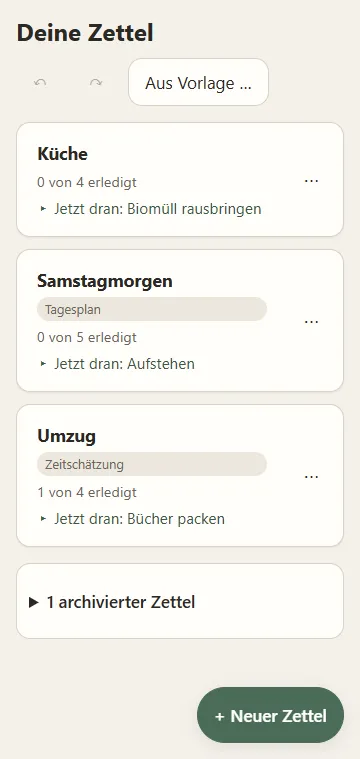
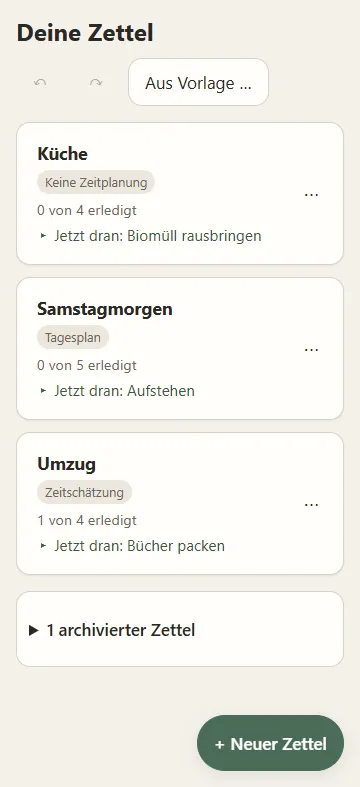
docs: v2.1 – Anleitung, Architektur, Abnahme, Prinzipien, Changelog, Bilder, Testdaten
- Anleitung (EN + DE): Etiketten für jeden Modus, Namensregeln, eindeutige
  Vorlagen, "Was ist neu?", Tastenkürzel ändern (neues Bild "advanced")
- ACCEPTANCE: Kriterien 21–26; manuelle Testdaten um ⑪ und doppelte Vorlagen
- DESIGN-PRINCIPLES: Namensregel, Etiketten, lange Titel, reservierte Tasten
- Screenshots neu erzeugt (26 Bilder, 365 KB)

diff --git a/docs/USER-GUIDE.md b/docs/USER-GUIDE.md
@@ -58,9 +58,10 @@ Both notes appear only once. Then:
 ![The list overview](images/en/overview.webp)
 
 The start page shows all your lists as cards. Each card shows the **title**,
-the **progress** (“1 of 4 done”), a **mode label** if the list uses a time
-planning, and the todo that is **up now** – so you know what's next without
-opening the list. Tapping the card opens it.
+the **progress** (“1 of 4 done”), a **label** with its time planning (also
+“No time planning”), and the todo that is **up now** – so you know what's next
+without opening the list. Long titles are shortened to two lines. Tapping the
+card opens it.
 
 At the top are **Undo** (↶) and **Redo** (↷) for what you did in the overview,
 and – once you have templates – **“From template …”**.
@@ -78,8 +79,10 @@ The **menu (⋯)** on a card offers:
 Every menu (⋯) in the app closes when you tap anywhere outside it, tap the
 three dots again or press **Esc**.
 
-**Names are unique:** two lists can't have the same name (upper and lower case
-don't count). If a name is taken, the dialog says so and waits for another one.
+**Names:** every list needs a name, and two lists can't have the same name
+(upper and lower case don't count). As long as the name is empty or taken, the
+button stays disabled and a short hint below the field says why. The same
+applies to templates.
 
 **Finished lists archive themselves:** when you come back to the overview,
 every list whose todos are all done moves to the archive, with **“Undo”** at
@@ -143,7 +146,7 @@ menu (⋯).
 Result: only the newest prerequisite is “Now”. Once it's checked off, the next
 one moves up by itself.
 
-> **On a computer:** **V** = something else has to come first, **N** = insert
+> **On a computer** (keys changeable, section 12): **V** = something else has to come first, **N** = insert
 > after, **E** = edit, **Enter/Space** = done, **Esc** ends a chain.
 
 ### 5. A list: “Flow”
@@ -284,7 +287,9 @@ Save a whole list **or** a single strand as a **template**:
 - **One strand:** in the Flow, card menu (⋯) → **“Save strand as template”**.
 
 Templates keep structure, titles, notes, checklists (unchecked), durations,
-times of day and the time planning – but not what was already done.
+times of day and the time planning – but not what was already done. Template
+names are unique like list names: saving a second “Weekly shop” creates
+“Weekly shop (2)”.
 
 On the **Templates** page you can expand the **Flow** of a template as a
 preview, **Rename** or **Delete** it (with Undo) and create a
@@ -301,11 +306,14 @@ into list”**: the template is added as a new, separate strand.
   permanently. If not, **“Protect permanently”** asks the browser.
 - **Install** – shows **“Offline ready”** once Faden is completely stored on
   your device, plus **“Install app”** where the browser offers it.
-- **Version** – the installed version. Faden **never updates by itself**;
-  **“Check for a new version”** asks, and a new version is only switched to
-  once it has been downloaded completely.
+- **Version** – the installed version. **“What's new?”** shows the changes of
+  every version (also offline). Faden **never updates by itself**; **“Check
+  for a new version”** asks, and a new version is only switched to once it has
+  been downloaded completely.
 - **Help** – **“Read the guide”** opens this guide in the app (also offline);
   **“Faden on GitHub”** opens the source code and the place to report problems.
+- **Advanced** – settings most people never need; for now the keyboard
+  shortcuts (section 12).
 - **Backup and data** – section 10.
 
 > **On a phone (iPhone/iPad):** in Safari, **Share → Add to Home Screen**
@@ -355,13 +363,23 @@ checking off, inserting, shifting.
 
 > **On a computer:**
 > - **Tab / Shift+Tab** move through the controls; every control shows a
->   clear focus ring.
-> - In “Now”: **Enter/Space** = done, **V** = something else has to come first,
->   **N** = insert after, **E** = edit.
-> - In the Flow: arrow keys move between cards, **Enter** edits, **Delete**
->   deletes.
+>   clear focus ring. **Enter/Space** press the focused button, e.g. “Done”.
+> - In “Now”: **V** = something else has to come first, **N** = insert after,
+>   **E** = edit.
+> - In the Flow (on a focused card): arrow keys move between cards, **Enter**
+>   edits, **Delete** deletes.
 > - **Ctrl/Cmd+Z** = undo, **Ctrl/Cmd+Shift+Z** or **Ctrl+Y** = redo.
-> - **?** shows all shortcuts. **Esc** closes menus and dialogs.
+> - **?** shows all shortcuts with their current keys. **Esc** closes menus
+>   and dialogs.
+
+![Changing keyboard shortcuts](images/en/advanced.webp)
+
+**Changing shortcuts:** under **Settings → Advanced**, tap **“Change”** next to
+an action and press the new key or combination (**Esc** cancels). Faden
+refuses keys that are already used where the action works, and **Tab** and
+**Esc**, which stay reserved for navigating. Changed shortcuts are marked
+“changed”; **“Default”** resets one, **“Reset all to default”** all of them.
+Shortcuts only work while no input field is active.
 
 ### 13. If something goes wrong
 
@@ -432,10 +450,10 @@ Beide Hinweise kommen nur einmal. Danach:
 ![Die Zettel-Übersicht](images/de/overview.webp)
 
 Die Startseite zeigt alle Zettel als Karten. Jede Karte zeigt den **Titel**,
-den **Fortschritt** („1 von 4 erledigt“), ein **Modus-Etikett**, wenn der
-Zettel eine Zeitplanung nutzt, und das ToDo, das **jetzt dran** ist – so weißt
-du, was als Nächstes kommt, ohne den Zettel zu öffnen. Ein Tipp auf die Karte
-öffnet ihn.
+den **Fortschritt** („1 von 4 erledigt“), ein **Etikett** mit seiner
+Zeitplanung (auch „Keine Zeitplanung“) und das ToDo, das **jetzt dran** ist – so
+weißt du, was als Nächstes kommt, ohne den Zettel zu öffnen. Lange Titel werden
+auf zwei Zeilen gekürzt. Ein Tipp auf die Karte öffnet ihn.
 
 Oben stehen **Rückgängig** (↶) und **Wiederholen** (↷) für das, was du in der
 Übersicht getan hast, und – sobald es Vorlagen gibt – **„Aus Vorlage …“**.
@@ -453,9 +471,10 @@ Das **Menü (⋯)** einer Karte bietet:
 Jedes Menü (⋯) in der App schließt sich, wenn du irgendwo daneben tippst, noch
 einmal auf die drei Punkte tippst oder **Esc** drückst.
 
-**Namen sind eindeutig:** Zwei Zettel können nicht gleich heißen (Groß- und
-Kleinschreibung zählen nicht). Ist ein Name vergeben, sagt der Dialog das und
-wartet auf einen anderen.
+**Namen:** Jeder Zettel braucht einen Namen, und zwei Zettel können nicht gleich
+heißen (Groß- und Kleinschreibung zählen nicht). Solange der Name leer oder
+vergeben ist, bleibt der Knopf gesperrt, und ein kurzer Hinweis unter dem Feld
+sagt warum. Für Vorlagen gilt dasselbe.
 
 **Fertige Zettel archivieren sich selbst:** Kommst du zurück in die Übersicht,
 wandert jeder Zettel, dessen ToDos alle erledigt sind, ins Archiv – mit
@@ -519,7 +538,7 @@ Fortschritt, Modus-Etikett, Rückgängig/Wiederholen für diesen Zettel, **?**
 Ergebnis: Nur die neueste Vorarbeit ist „Jetzt dran“. Ist sie abgehakt, rückt
 die nächste von selbst nach.
 
-> **Am PC:** **V** = erst noch etwas anderes nötig, **N** = danach einfügen,
+> **Am PC** (Tasten änderbar, Abschnitt 12): **V** = erst noch etwas anderes nötig, **N** = danach einfügen,
 > **E** = bearbeiten, **Enter/Leertaste** = erledigt, **Esc** beendet eine
 > Kette.
 
@@ -668,6 +687,8 @@ Speichere einen ganzen Zettel **oder** einen einzelnen Strang als **Vorlage**:
 
 Vorlagen behalten Struktur, Titel, Notizen, Checklisten (ohne Haken), Dauern,
 Uhrzeiten und die Zeitplanung – aber nicht, was schon erledigt war.
+Vorlagen-Namen sind eindeutig wie Zettel-Namen: Ein zweiter „Wocheneinkauf“ wird
+zu „Wocheneinkauf (2)“.
 
 Auf der Seite **Vorlagen** klappst du den **Ablauf** einer Vorlage als Vorschau
 auf, kannst sie **Umbenennen** oder **Löschen** (mit Rückgängig) und mit
@@ -685,12 +706,15 @@ neuer, eigener Strang dazu.
   schützt. Wenn nicht, fragt **„Dauerhaft schützen“** beim Browser nach.
 - **Installieren** – zeigt **„Offline bereit“**, sobald Faden vollständig auf
   deinem Gerät liegt, und **„App installieren“**, wo der Browser es anbietet.
-- **Version** – die installierte Version. Faden **aktualisiert sich nie von
+- **Version** – die installierte Version. **„Was ist neu?“** zeigt die
+  Änderungen jeder Version (auch offline). Faden **aktualisiert sich nie von
   selbst**; **„Nach neuer Version suchen“** fragt nach, und auf eine neue
   Version wird erst umgeschaltet, wenn sie vollständig geladen ist.
 - **Hilfe** – **„Anleitung lesen“** öffnet diese Anleitung in der App (auch
   offline); **„Faden auf GitHub“** öffnet den Quellcode und die Stelle zum
   Melden von Fehlern.
+- **Für Fortgeschrittene** – Einstellungen, die die meisten nie brauchen;
+  vorerst die Tastenkürzel (Abschnitt 12).
 - **Sicherung und Daten** – Abschnitt 10.
 
 > **Auf dem Handy (iPhone/iPad):** In Safari installiert **Teilen → Zum
@@ -745,14 +769,26 @@ Löschen, Abhaken, Einfügen, Verschieben.
 
 > **Am PC:**
 > - **Tab / Umschalt+Tab** wechseln zwischen den Bedienelementen; jedes zeigt
->   einen deutlichen Fokusrahmen.
-> - In „Jetzt dran“: **Enter/Leertaste** = erledigt, **V** = erst noch etwas
->   anderes nötig, **N** = danach einfügen, **E** = bearbeiten.
-> - Im Ablauf: Pfeiltasten wechseln zwischen Karten, **Enter** bearbeitet,
->   **Entf** löscht.
+>   einen deutlichen Fokusrahmen. **Enter/Leertaste** lösen den fokussierten
+>   Knopf aus, z. B. „Erledigt“.
+> - In „Jetzt dran“: **V** = erst noch etwas anderes nötig, **N** = danach
+>   einfügen, **E** = bearbeiten.
+> - Im Ablauf (auf einer fokussierten Karte): Pfeiltasten wechseln zwischen
+>   Karten, **Enter** bearbeitet, **Entf** löscht.
 > - **Strg/Cmd+Z** = rückgängig, **Strg/Cmd+Umschalt+Z** oder **Strg+Y** =
 >   wiederholen.
-> - **?** zeigt alle Tastenkürzel. **Esc** schließt Menüs und Dialoge.
+> - **?** zeigt alle Tastenkürzel mit ihrer aktuellen Belegung. **Esc** schließt
+>   Menüs und Dialoge.
+
+![Tastenkürzel ändern](images/de/advanced.webp)
+
+**Tastenkürzel ändern:** Unter **Einstellungen → Für Fortgeschrittene** tippst
+du neben einer Aktion auf **„Ändern“** und drückst die neue Taste oder
+Kombination (**Esc** bricht ab). Faden lehnt Tasten ab, die dort schon belegt
+sind, wo die Aktion wirkt, sowie **Tab** und **Esc**, die für die Bedienung
+reserviert bleiben. Geänderte Kürzel sind als „geändert“ markiert;
+**„Standard“** setzt eines zurück, **„Alle auf Standard“** alle. Kürzel wirken
+nur, wenn gerade kein Eingabefeld aktiv ist.
 
 ### 13. Wenn etwas schiefgeht
 

diff --git a/docs/ACCEPTANCE.md b/docs/ACCEPTANCE.md
@@ -40,6 +40,12 @@ auf eine Bildschirmgröße einschränken.
 | 18 | **Zeitplanung mit Start + Dauer:** Zeit im Sheet als Zusammenfassungszeile (beim Anlegen im Tagesplan/festen Zeitplan aufgeklappt); Pause am Pfeil nur bei > 0; Verschieben für Zettel oder Strang mit Vorschau, im Tagesplan nie über 0:00/24:00; relatives Einfügen vor dem ersten, nach dem letzten und dazwischen (beide Optionen, Verzweigungen), nur im eigenen Strang, ein Undo-Schritt; „+1 Tag“ behält die Uhrzeit über die Zeitumstellung. | Unit-Tests `time.spec` (`pauseBetween`, `relativeContext`, `placeRelative`, `shiftPlan` mit Bereich und Zeitumstellung, `shiftLeavesDay`), `task-editor.spec` (Zeit), `plan-editor.spec`, `flow-view.spec`; `test:acceptance` Tests 8 (Ablauf und Sheet im Tagesplan) | ✔ |
 | 19 | **Konflikte beim Zusammenführen:** Gleichnamige Zettel (ohne Groß-/Kleinschreibung) werden angezeigt; eine Wahl für alle: als „Name (2)“, überschreiben (ID und Position bleiben, vorher Sicherung), nicht importieren, nur neuere (Gleichstand = überspringen); Ergebnis „n importiert, n übersprungen, n überschrieben“. | Unit-Tests `storage.spec` (`findConflicts`, `resolveConflicts` alle vier Strategien, Roundtrip), `backup.service.spec` (Sicherung vor dem Überschreiben), `settings-page.spec` (Konflikt-Dialog) | ✔ |
 | 20 | **Erst-Start und Anleitung:** Beim ersten Start modaler Speicher-Hinweis (nur „Verstanden“ schließt ihn), danach einmal das Angebot, die Anleitung zu lesen; das Installations-Banner erst danach. Die Anleitung öffnet im Vollbild beim Teil der eingestellten Sprache, Anker-Links bleiben im Dialog, sie ist offline lesbar und in den Einstellungen erreichbar; dort auch der Link zum Repository. | `test:acceptance` Test F (nur Tastatur, 360 px, Tippflächen); `test:pwa` Test 2 (Anleitung offline); Unit-Tests `first-run.spec`, `guide-dialog.spec`, `install-banner.spec`; `test:scripts` (Konverter) | ✔ |
+| 21 | **Lange Titel** (mit und ohne Leerzeichen) brechen überall um und ragen nie aus Karten, Kopfzeilen oder der Seitenleiste; Vorschauen in der Übersicht und im Archiv zeigen höchstens zwei Zeilen, Ablauf-Karten höchstens drei. | `test:acceptance` Tests 8 (Testzettel mit 136 Zeichen ohne Leerzeichen; Prüfung „Text ragt heraus“ in allen Größen, inkl. seitlich abgeschnittener Wörter); Gegenprobe ohne Umbruch schlägt an | ✔ |
+| 22 | **Modus-Etikett** an jedem Zettel (Übersicht, Archiv, Kopf, Seitenleiste), auch „Keine Zeitplanung“, nur so breit wie sein Text. | Unit-Test `lists-page.spec`; Bilder der Anleitung | ✔ |
+| 23 | **Namen** von Zetteln, Vorlagen und ToDos sind nie leer; Zettel- und Vorlagen-Namen sind eindeutig (auch beim Import und für vorhandene Duplikate). Leer und vergeben verhalten sich gleich: Knopf gesperrt (`aria-disabled`, weiter erreichbar), ruhiger Hinweis direkt unter dem Feld. | Unit-Tests `list-dialog.spec`, `task-editor.spec`, `templates.store.spec`, `storage.spec` | ✔ |
+| 24 | **Tastenkürzel änderbar** unter „Für Fortgeschrittene“: Aufnahme per Tastendruck, Esc bricht ab, Tab bleibt Navigation, belegte und reservierte Tasten werden abgelehnt, Zurücksetzen einzeln und gesamt; die Hilfe (?) zeigt die aktuelle Belegung. | Unit-Tests `keymap.spec`, `advanced-page.spec`, `focus-view.spec`, `flow-view.spec`; `test:acceptance` Test 1 (Standardbelegung per Tastatur) und Tests 8 (Seite responsiv) | ✔ |
+| 25 | **„Was ist neu?“** zeigt `CHANGELOG.md` in der App, auch offline. | Unit-Test `guide-dialog.spec`; `test:pwa` Test 2 | ✔ |
+| 26 | **Ablauf verschieben markiert keinen Text.** | `test:acceptance` Tests 8 (`user-select: none` auf der Diagrammfläche) | ✔ |
 
 ## Manuelle Testdaten
 
@@ -60,8 +66,10 @@ damit Auto-Archiv (⑦) und eindeutige Namen (⑨) greifen.
 | ⑦ Alles erledigt | Auto-Archiv beim Betreten der Übersicht, mit Rückgängig |
 | ⑧ Archiv | Modus-Chip, enthaltene ToDos, Menü, Duplizieren als „(2)“ |
 | ⑨ Doppelter Name (2×) | Bereinigung beim Laden, gesperrte Namen im Dialog |
-| ⑩ Lange Titel | Umbruch und Abschneiden bei 360 px |
+| ⑩ Lange Titel | Umbruch (auch ohne Leerzeichen) und Kürzen in Übersicht, „Jetzt dran“ und Ablauf |
+| ⑪ Name ohne Leerzeichen | Zettelname bricht um; Chip „Keine Zeitplanung“ überall, schmal; Ablauf ohne Textmarkierung |
 | Vorlage: Morgenroutine | Vorlage mit Zeiten und Checkliste einsetzen |
+| Vorlage doppelt (2×) | Eindeutige Vorlagen-Namen beim Import, gesperrtes Umbenennen |
 
 Was jeweils zu tun ist, steht in den Notizen der ToDos. Neue Features ergänzen
 hier ihren Zettel; der Unit-Test in `storage.spec` stellt sicher, dass die Datei

diff --git a/docs/ARCHITECTURE.md b/docs/ARCHITECTURE.md
@@ -44,6 +44,7 @@ src/app/
 │  │  ├─ status.ts                  Zeitstatus, nächster Schritt, Sortierung, Spannen
 │  │  ├─ plan.ts                    Validierung, Verschieben, Strecken, Vorschläge
 │  │  └─ relative.ts                Pause am Pfeil, Einfügen mit relativen Zeiten
+│  ├─ keymap.ts                     REINE Tastenkürzel-Logik (Standard, eigene Belegung, Konflikte)
 │  ├─ templates/                    REINE Vorlagen-Logik (framewerkfrei, Phase 3)
 │  │  └─ templates.ts               Zettel/Strang → Vorlage, Vorlage → Zettel/Strang
 │  ├─ storage/                      Persistenz (IndexedDB, Migration, Backup)
@@ -70,7 +71,7 @@ src/app/
 │  │  ├─ plan-editor.ts             „Zeitplan bearbeiten" / „Strang verschieben"
 │  │  └─ shortcut-help.ts           Tastenkürzel-Übersicht
 │  ├─ templates/                    Vorlagen-Seite (Phase 3, fertig)
-│  └─ settings/                     Einstellungen (Phase 1: Theme, Sprache, Version, Speicher)
+│  └─ settings/                     Einstellungen; advanced-page.ts = „Für Fortgeschrittene“ (Tastenkürzel)
 └─ shared/
    ├─ menus.ts                      gemeinsames Schließen aller ⋯-Menüs (Klick, Esc)
    ├─ focus.ts                      focusAfterRender (Fokus in neu erscheinende Felder)
@@ -168,6 +169,21 @@ Frameworkfrei und vollständig unit-getestet. Vier Dateien:
 Alle Funktionen sind **rein** (Eingabe → neue Struktur). Das minütliche `now`
 liefert `core/state/now.store.ts` als Signal; die reinen Funktionen bekommen `now`
 übergeben und bleiben dadurch testbar.
+
+## 4a2. Tastenkürzel (`core/keymap.ts`)
+
+Frameworkfrei und getestet (`keymap.spec.ts`). Jede Aktion gehört zu einem
+**Bereich**: `focus` („Jetzt dran“), `flow` (Ablauf, nur auf einer fokussierten
+Karte) oder `global` (überall im Zettel). `DEFAULT_KEYMAP` ist die
+Standardbelegung; `AppSettings.keymap` speichert **nur Abweichungen**
+(`SettingsStore.keymap` = Standard + eigene). `actionFor(event, keymap,
+scopes)` ersetzt alle früheren Tasten-Vergleiche in `focus-view`, `flow-view`
+und `list-detail-page`. Regeln: Strg und Cmd gelten gleich; Umschalt zählt bei
+Buchstaben und benannten Tasten, nicht bei Zeichen wie „?“ (je nach
+Tastaturlayout nötig); Tab und Esc sind reserviert; `conflictFor` verhindert
+Doppelbelegungen in Bereichen, die zugleich aktiv sein können (`global`
+überschneidet sich mit allen). Die Seite `einstellungen/fortgeschritten`
+nimmt neue Tasten auf; die Tastenkürzel-Hilfe zeigt die aktuelle Belegung.
 
 ## 4b. Vorlagen-Logik (`core/templates`)
 
@@ -341,7 +357,7 @@ Bausteine:
 | `scripts/generate-icons.mjs` | Rastert die Icon-Geometrie (Quelle: `public/icons/icon.svg`) ohne Fremdpakete zu PNG/ICO (`npm run icons`). |
 | `core/pwa/pwa.service.ts` | Registriert `./sw.js` (nur Produktion, nach `load`), fängt `beforeinstallprompt` ab, erkennt iOS und installierten Modus, fragt den SW nach dem Precache-Status („Offline bereit"). |
 | `scripts/pwa-test.mjs` | Automatisierte Pflichttests, siehe `docs/PWA-TESTS.md`. |
-| `scripts/guide.mjs`, `scripts/lib/markdown.mjs` | Läuft vor `ng build` und `ng serve`: wandelt `docs/USER-GUIDE.md` mit einem eigenen kleinen Konverter (nur die genutzten Elemente, Zitate als Kästen „Am PC / Auf dem Handy“, keine Abhängigkeit; Tests mit `npm run test:scripts`) in das Fragment `public/guide/guide.html` um und kopiert `docs/images/`. Nicht eingecheckt; über den Build im Precache, also offline lesbar. |
+| `scripts/guide.mjs`, `scripts/lib/markdown.mjs` | Läuft vor `ng build` und `ng serve`: wandelt `docs/USER-GUIDE.md` und `CHANGELOG.md` mit einem eigenen kleinen Konverter (nur die genutzten Elemente, Zitate als Kästen „Am PC / Auf dem Handy“, keine Abhängigkeit; Tests mit `npm run test:scripts`) in die Fragmente `public/guide/guide.html` und `public/guide/changelog.html` um (der `GuideDialog` zeigt beide, „Was ist neu?“) und kopiert `docs/images/`. Nicht eingecheckt; über den Build im Precache, also offline lesbar. |
 
 Ablauf im Service Worker:
 

diff --git a/docs/DESIGN-PRINCIPLES.md b/docs/DESIGN-PRINCIPLES.md
@@ -86,6 +86,9 @@ danach“.
   noch …“).
 - **Tastatur:** alles per Tastatur bedienbar, sichtbare Fokusrahmen, Fokus
   landet in neu erscheinenden Feldern und geht nach einer Aktion nie verloren.
+  Alle Tastenkürzel sind änderbar („Für Fortgeschrittene“); **Tab** und **Esc**
+  bleiben für die Bedienung reserviert, Enter/Leertaste auf einem Knopf lösen
+  immer den Knopf aus.
 - **Menüs** (⋯) schließen sich bei Klick/Tipp außerhalb und mit Esc.
 - **Responsive:** ab 360 px Breite ohne horizontales Scrollen (außer in der
   Diagrammfläche). Unter 600 px Dialoge als Bottom-Sheets, über 1024 px
@@ -116,9 +119,17 @@ danach“.
 
 **Zettel und ToDos:**
 
-- **Zettel-Namen sind eindeutig** (getrimmt, ohne Groß-/Kleinschreibung, über
-  aktive und archivierte Zettel). Ein vergebener Name wird im Dialog ruhig
-  gesperrt; automatisch entstehende Namen bekommen „ (2)“, „ (3)“ …
+- **Namen sind nie leer.** **Zettel- und Vorlagen-Namen sind eindeutig**
+  (getrimmt, ohne Groß-/Kleinschreibung; bei Zetteln über aktive und
+  archivierte); ToDo-Titel dürfen sich wiederholen. Leer und vergeben verhalten
+  sich gleich: Der Knopf ist gesperrt (`aria-disabled`, bleibt erreichbar), ein
+  ruhiger Hinweis steht direkt unter dem Feld. Automatisch entstehende Namen
+  bekommen „ (2)“, „ (3)“ …
+- **Jeder Zettel zeigt seine Zeitplanung** als Etikett, auch „Keine
+  Zeitplanung“ – überall gleich (Übersicht, Archiv, Kopf, Seitenleiste).
+- **Lange Titel** brechen überall um, auch ohne Leerzeichen; Vorschauen kürzen
+  auf zwei (Karten) bzw. drei Zeilen (Ablauf), der Titel in „Jetzt dran“ bleibt
+  vollständig.
 - **Fertige Zettel archivieren sich selbst** beim Betreten der Übersicht (mit
   Rückgängig). Archivierte Zettel bleiben vollständig nutzbar (Inhalt ansehen,
   duplizieren, als Vorlage).

diff --git a/CHANGELOG.md b/CHANGELOG.md
@@ -29,6 +29,12 @@
 - The overview no longer briefly shows “Create your first list” while your
   lists are loading.
 
+**Fixed**
+
+- In the flow, Enter on the check circle or ⋯ of a card now presses that
+  button instead of opening “Edit”.
+- Ctrl+Z inside a dialog no longer undoes something behind it.
+
 ### 2.0.0
 
 - One sheet for creating and editing todos; Enter creates instantly.
@@ -70,6 +76,12 @@
   zu „Name (2)“.
 - Beim Verschieben des Ablaufs mit der Maus wird kein Text mehr markiert.
 - Die Übersicht zeigt beim Laden nicht mehr kurz „Ersten Zettel anlegen“.
+
+**Behoben**
+
+- Im Ablauf löst Enter auf dem Abhak-Kreis oder dem ⋯ einer Karte jetzt diesen
+  Knopf aus, statt „Bearbeiten“ zu öffnen.
+- Strg+Z in einem Dialog macht nichts mehr dahinter rückgängig.
 
 ### 2.0.0
 
